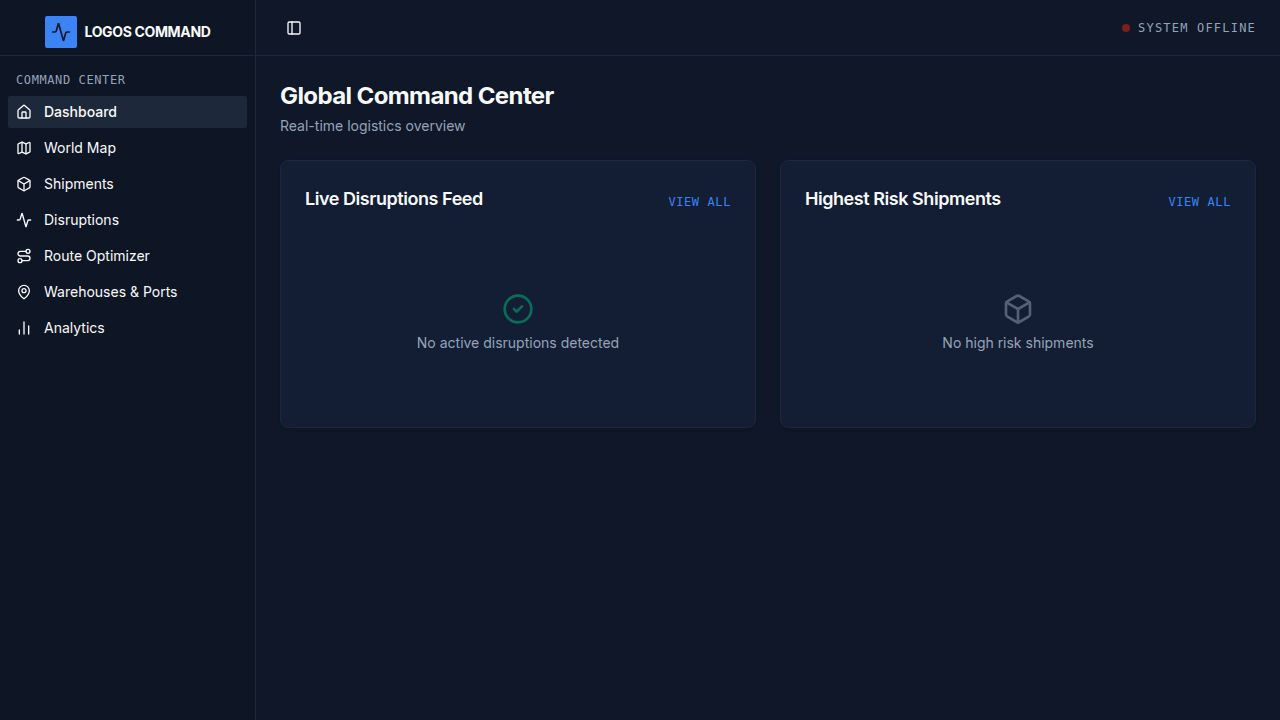
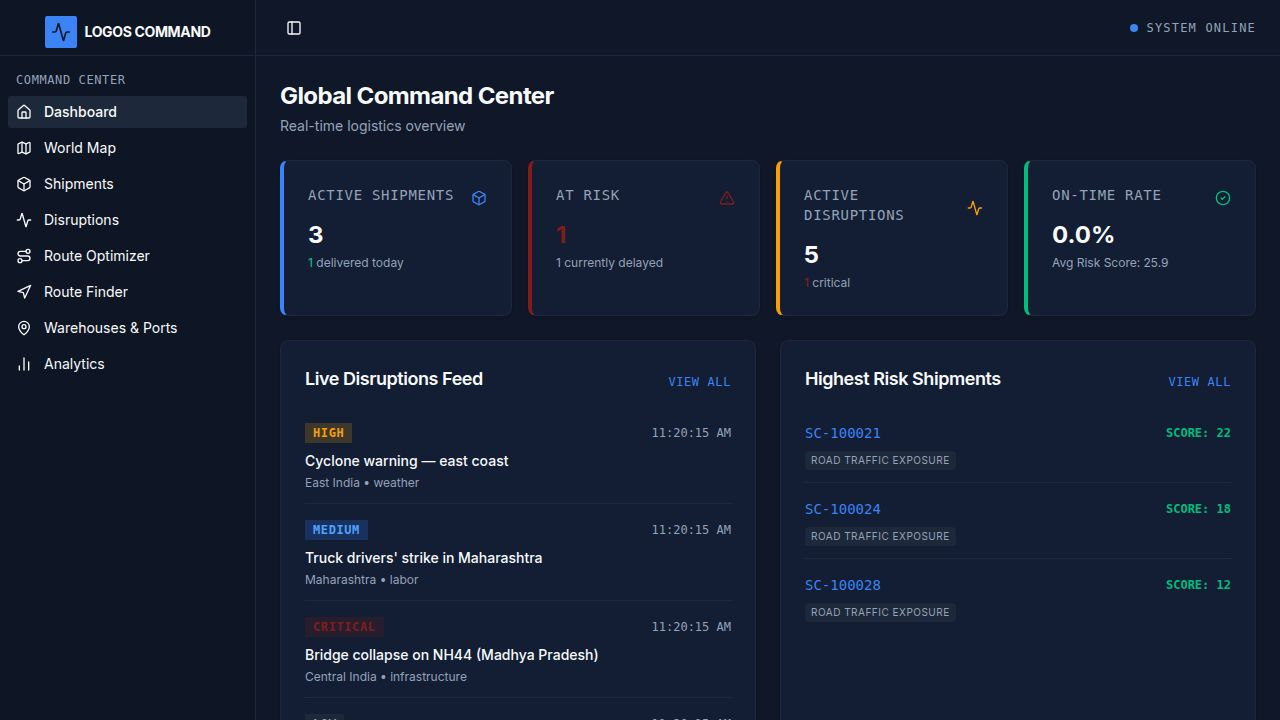
Add road geometry fetching and caching to route finder
Implement OSRM fetching with localStorage caching for road geometry, a progress indicator, and concurrency limiting in route-finder.tsx. Update replit.md with new route-finder and map routes.

Replit-Commit-Author: Agent
Replit-Commit-Session-Id: 38dac3ca-1293-4b48-a6bd-7fccc2cbee66
Replit-Commit-Checkpoint-Type: full_checkpoint
Replit-Commit-Event-Id: 1ee05848-1dbb-4fd1-adca-c5c7459abe9d
Replit-Commit-Screenshot-Url: https://storage.googleapis.com/screenshot-production-us-central1/6f1454a0-27b8-441c-a59f-91548ef1e3fa/38dac3ca-1293-4b48-a6bd-7fccc2cbee66/7BsrKtG
Replit-Helium-Checkpoint-Created: true

diff --git a/artifacts/supply-chain/src/pages/route-finder.tsx b/artifacts/supply-chain/src/pages/route-finder.tsx
@@ -307,10 +307,132 @@ export default function RouteFinder() {
     return p;
   }, [nodes]);
 
+  const ROAD_CACHE_KEY = "supply-chain.roadGeom.v1";
+  const roadGeomRef = useRef<Map<string, LatLng[]>>(
+    (() => {
+      const m = new Map<string, LatLng[]>();
+      try {
+        const raw = localStorage.getItem(ROAD_CACHE_KEY);
+        if (raw) {
+          const obj = JSON.parse(raw) as Record<string, LatLng[]>;
+          for (const [k, v] of Object.entries(obj)) m.set(k, v);
+        }
+      } catch {
+        // ignore
+      }
+      return m;
+    })(),
+  );
+  const [roadGeomTick, setRoadGeomTick] = useState(0);
+  const [roadProgress, setRoadProgress] = useState({ done: 0, total: 0 });
+
+  useEffect(() => {
+    if (paths.length === 0) return;
+    let cancelled = false;
+
+    const edgeKeys = new Set<string>();
+    for (const p of paths) {
+      for (let i = 0; i < p.nodes.length - 1; i++) {
+        edgeKeys.add(`${p.nodes[i]}|${p.nodes[i + 1]}`);
+      }
+    }
+    const cache = roadGeomRef.current;
+    const missing = Array.from(edgeKeys).filter((k) => !cache.has(k));
+    setRoadProgress({ done: edgeKeys.size - missing.length, total: edgeKeys.size });
+    if (missing.length === 0) return;
+
+    async function fetchEdge(key: string): Promise<LatLng[] | null> {
+      const [a, b] = key.split("|");
+      const na = graph.nodes.get(a);
+      const nb = graph.nodes.get(b);
+      if (!na || !nb) return null;
+      const url = `https://router.project-osrm.org/route/v1/driving/${na.position[1]},${na.position[0]};${nb.position[1]},${nb.position[0]}?overview=full&geometries=geojson`;
+      const controller = new AbortController();
+      const timer = setTimeout(() => controller.abort(), 8000);
+      try {
+        const r = await fetch(url, { signal: controller.signal });
+        if (!r.ok) return null;
+        const data = await r.json();
+        const coords = data?.routes?.[0]?.geometry?.coordinates;
+        if (!Array.isArray(coords) || coords.length === 0) return null;
+        return coords.map(
+          ([lon, lat]: [number, number]) => [lat, lon] as LatLng,
+        );
+      } catch {
+        return null;
+      } finally {
+        clearTimeout(timer);
+      }
+    }
+
+    (async () => {
+      const concurrency = 2;
+      const queue = [...missing];
+      let completed = edgeKeys.size - missing.length;
+
+      async function worker() {
+        while (queue.length > 0) {
+          if (cancelled) return;
+          const key = queue.shift()!;
+          const geom = await fetchEdge(key);
+          if (cancelled) return;
+          if (geom) {
+            roadGeomRef.current.set(key, geom);
+          } else {
+            const [a, b] = key.split("|");
+            const na = graph.nodes.get(a);
+            const nb = graph.nodes.get(b);
+            if (na && nb) roadGeomRef.current.set(key, [na.position, nb.position]);
+          }
+          completed += 1;
+          setRoadProgress({ done: completed, total: edgeKeys.size });
+          setRoadGeomTick((t) => t + 1);
+        }
+      }
+
+      await Promise.all(
+        Array(Math.min(concurrency, queue.length))
+          .fill(null)
+          .map(() => worker()),
+      );
+
+      if (!cancelled) {
+        try {
+          const obj: Record<string, LatLng[]> = {};
+          for (const [k, v] of roadGeomRef.current.entries()) obj[k] = v;
+          localStorage.setItem(ROAD_CACHE_KEY, JSON.stringify(obj));
+        } catch {
+          // localStorage might be full; ignore
+        }
+      }
+    })();
+
+    return () => {
+      cancelled = true;
+    };
+  }, [paths, graph]);
+
   function pathPolyline(p: PathResult): LatLng[] {
-    return p.nodes
-      .map((id) => graph.nodes.get(id)?.position)
-      .filter(Boolean) as LatLng[];
+    void roadGeomTick;
+    const out: LatLng[] = [];
+    for (let i = 0; i < p.nodes.length - 1; i++) {
+      const a = p.nodes[i];
+      const b = p.nodes[i + 1];
+      const key = `${a}|${b}`;
+      const geom = roadGeomRef.current.get(key);
+      if (geom && geom.length > 0) {
+        if (out.length === 0) out.push(geom[0]);
+        for (let j = 1; j < geom.length; j++) out.push(geom[j]);
+      } else {
+        const na = graph.nodes.get(a);
+        const nb = graph.nodes.get(b);
+        if (na && nb) {
+          if (out.length === 0) out.push(na.position);
+          out.push(nb.position);
+        }
+      }
+    }
+    return out;
   }
 
   function injectSimulatedIncident() {
@@ -344,6 +466,12 @@ export default function RouteFinder() {
           </p>
         </div>
         <div className="flex items-center gap-2">
+          {roadProgress.total > 0 && roadProgress.done < roadProgress.total && (
+            <Badge variant="outline" className="font-mono text-[10px] uppercase flex items-center gap-1">
+              <RefreshCw className="h-3 w-3 animate-spin" />
+              Roads {roadProgress.done}/{roadProgress.total}
+            </Badge>
+          )}
           <Badge variant="outline" className="font-mono text-[10px] uppercase flex items-center gap-1">
             <span className="h-2 w-2 rounded-full bg-green-500 animate-pulse" />
             Live Scan {scanTick}
@@ -638,7 +766,7 @@ export default function RouteFinder() {
                   const color = i === 0 ? PATH_COLORS[0] : PATH_COLORS[i % PATH_COLORS.length];
                   return (
                     <Polyline
-                      key={`path-${i}-${scanTick}`}
+                      key={`path-${i}-${scanTick}-${roadGeomTick}`}
                       positions={pathPolyline(p)}
                       pathOptions={{
                         color,

diff --git a/replit.md b/replit.md
@@ -30,6 +30,8 @@ A full-stack real-time supply chain monitoring and optimization platform. Provid
 - `/shipments/:id` — Shipment detail view
 - `/disruptions` — Disruption alerts (weather, port congestion, strikes, etc.)
 - `/routes` — Route optimizer with cost/time tradeoffs
+- `/route-finder` — Multi-path Dijkstra/Yen's K-shortest with satellite map, OSRM road-following polylines, incident-aware re-routing, before/after compare
+- `/map` — World map with road-following routes via OSRM
 - `/analytics` — Charts: delay forecast, disruption trends, cost breakdown
 - `/warehouses` — Warehouse and port congestion monitoring
 